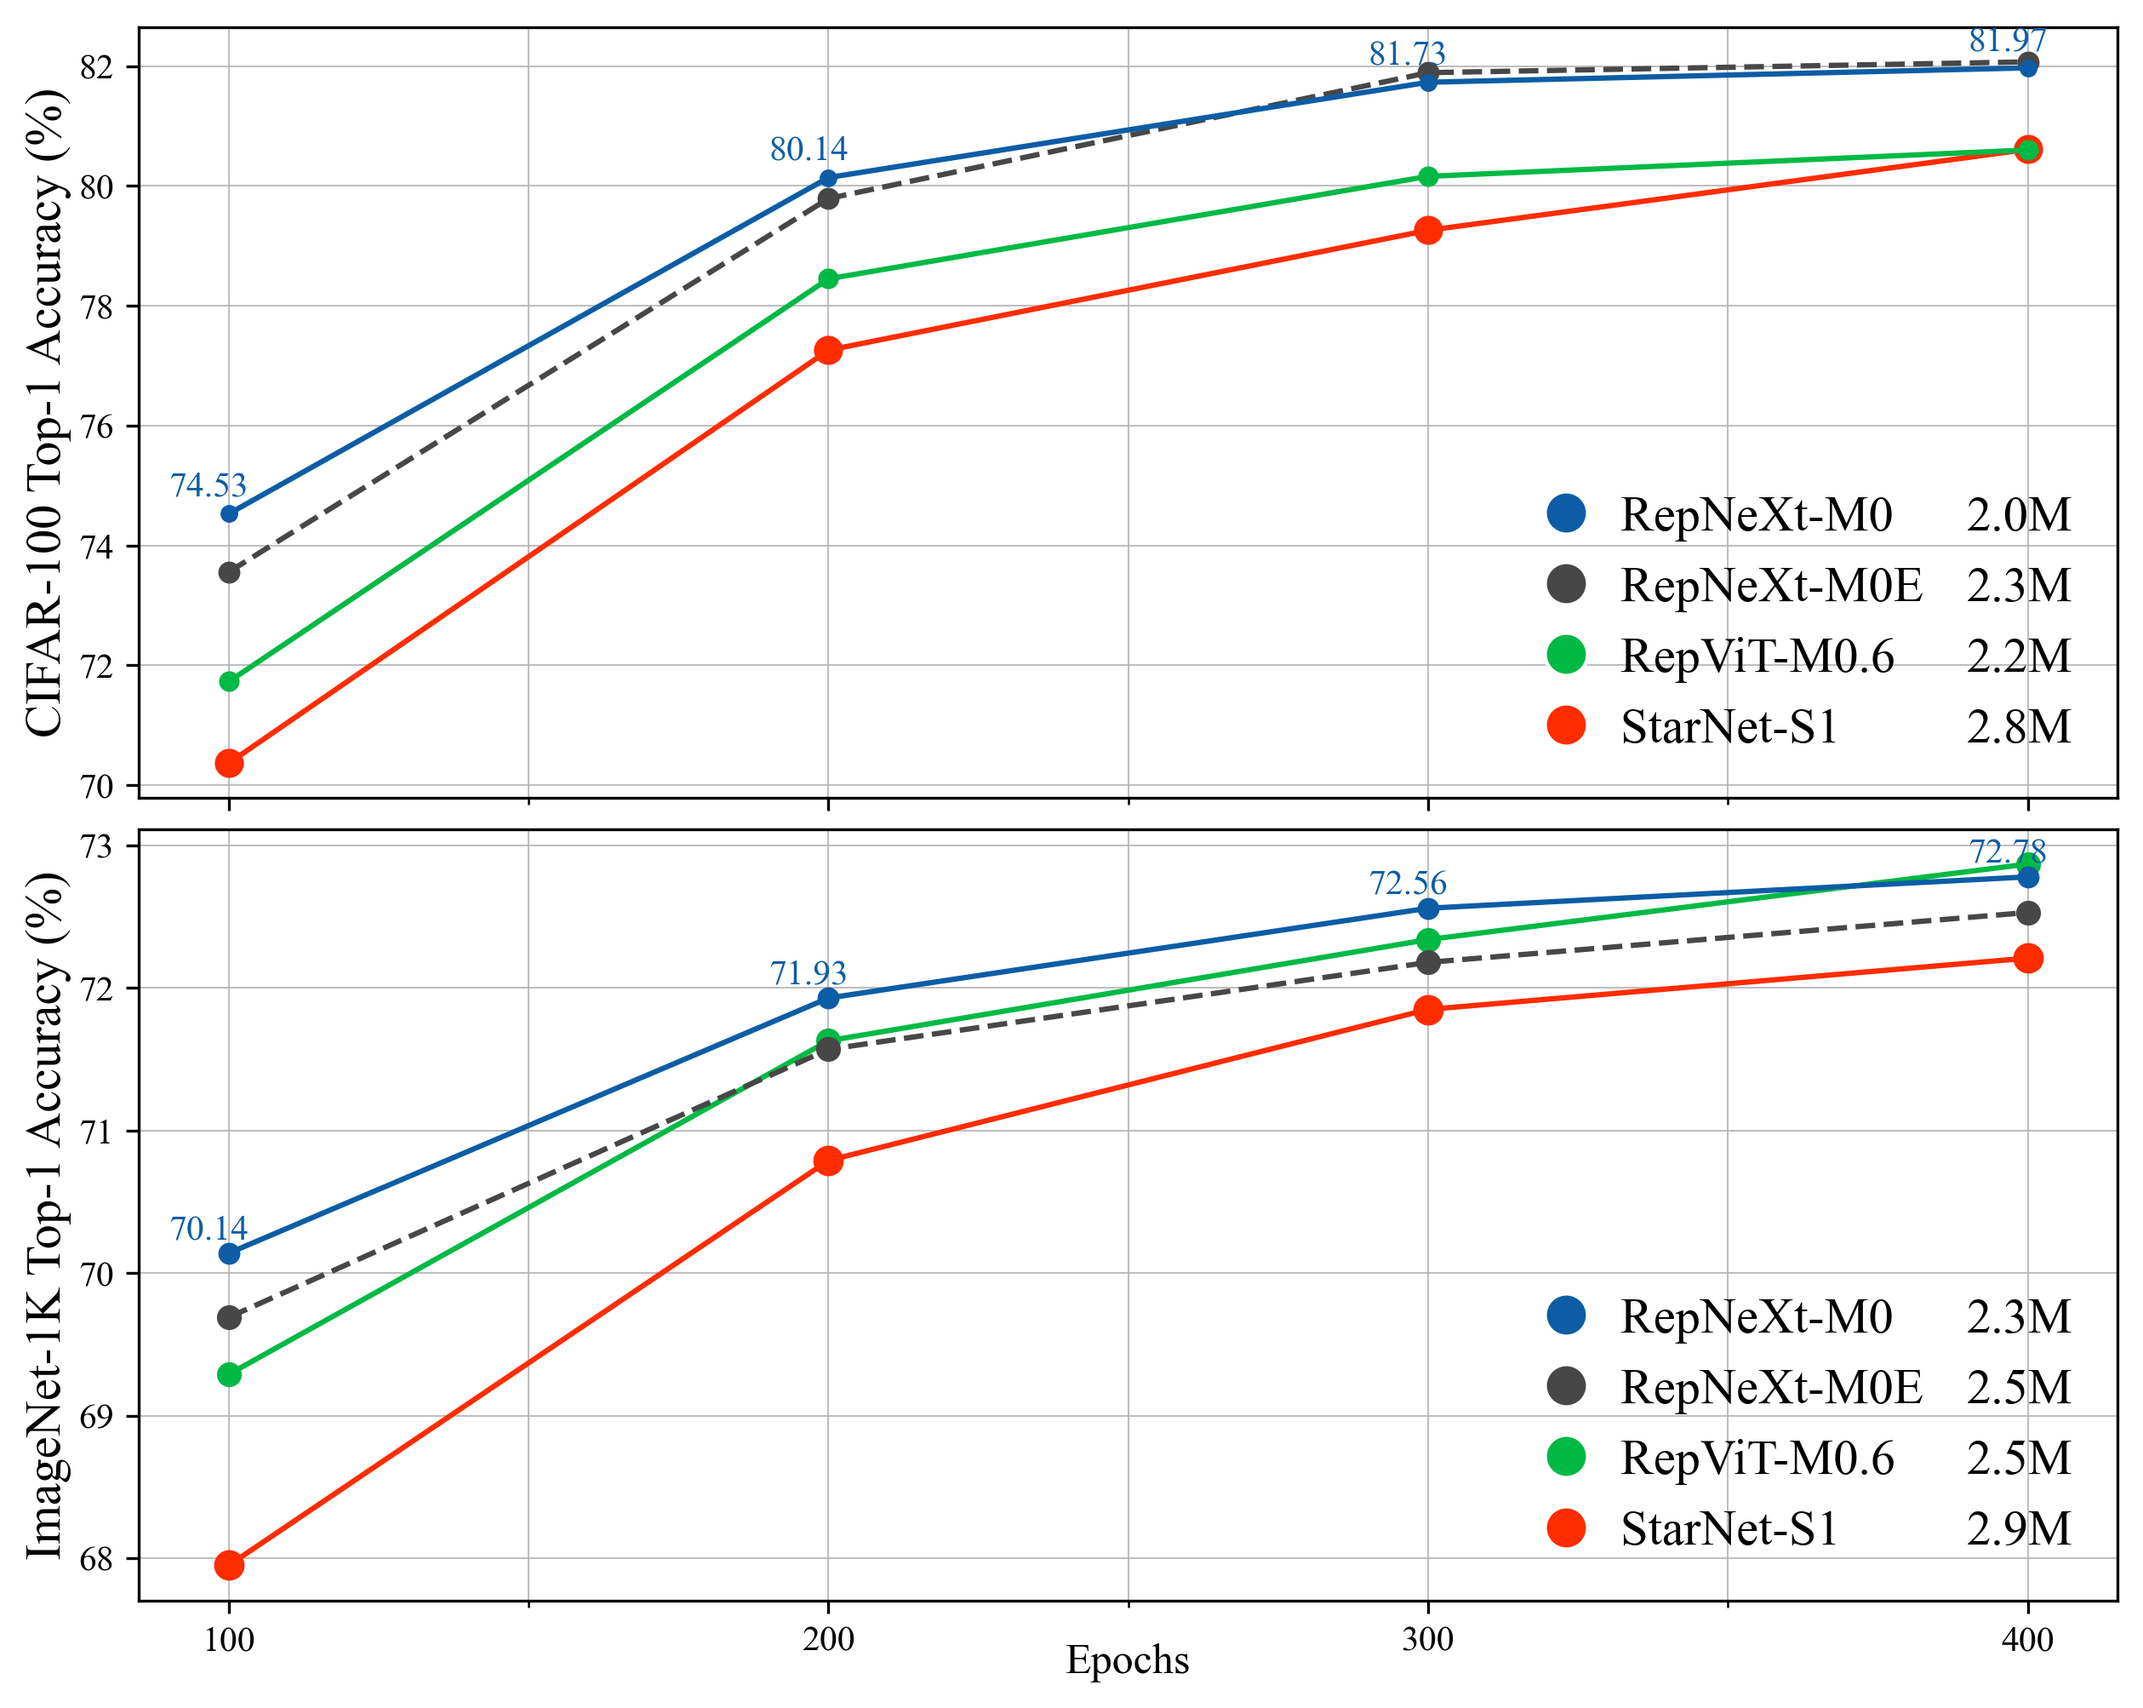
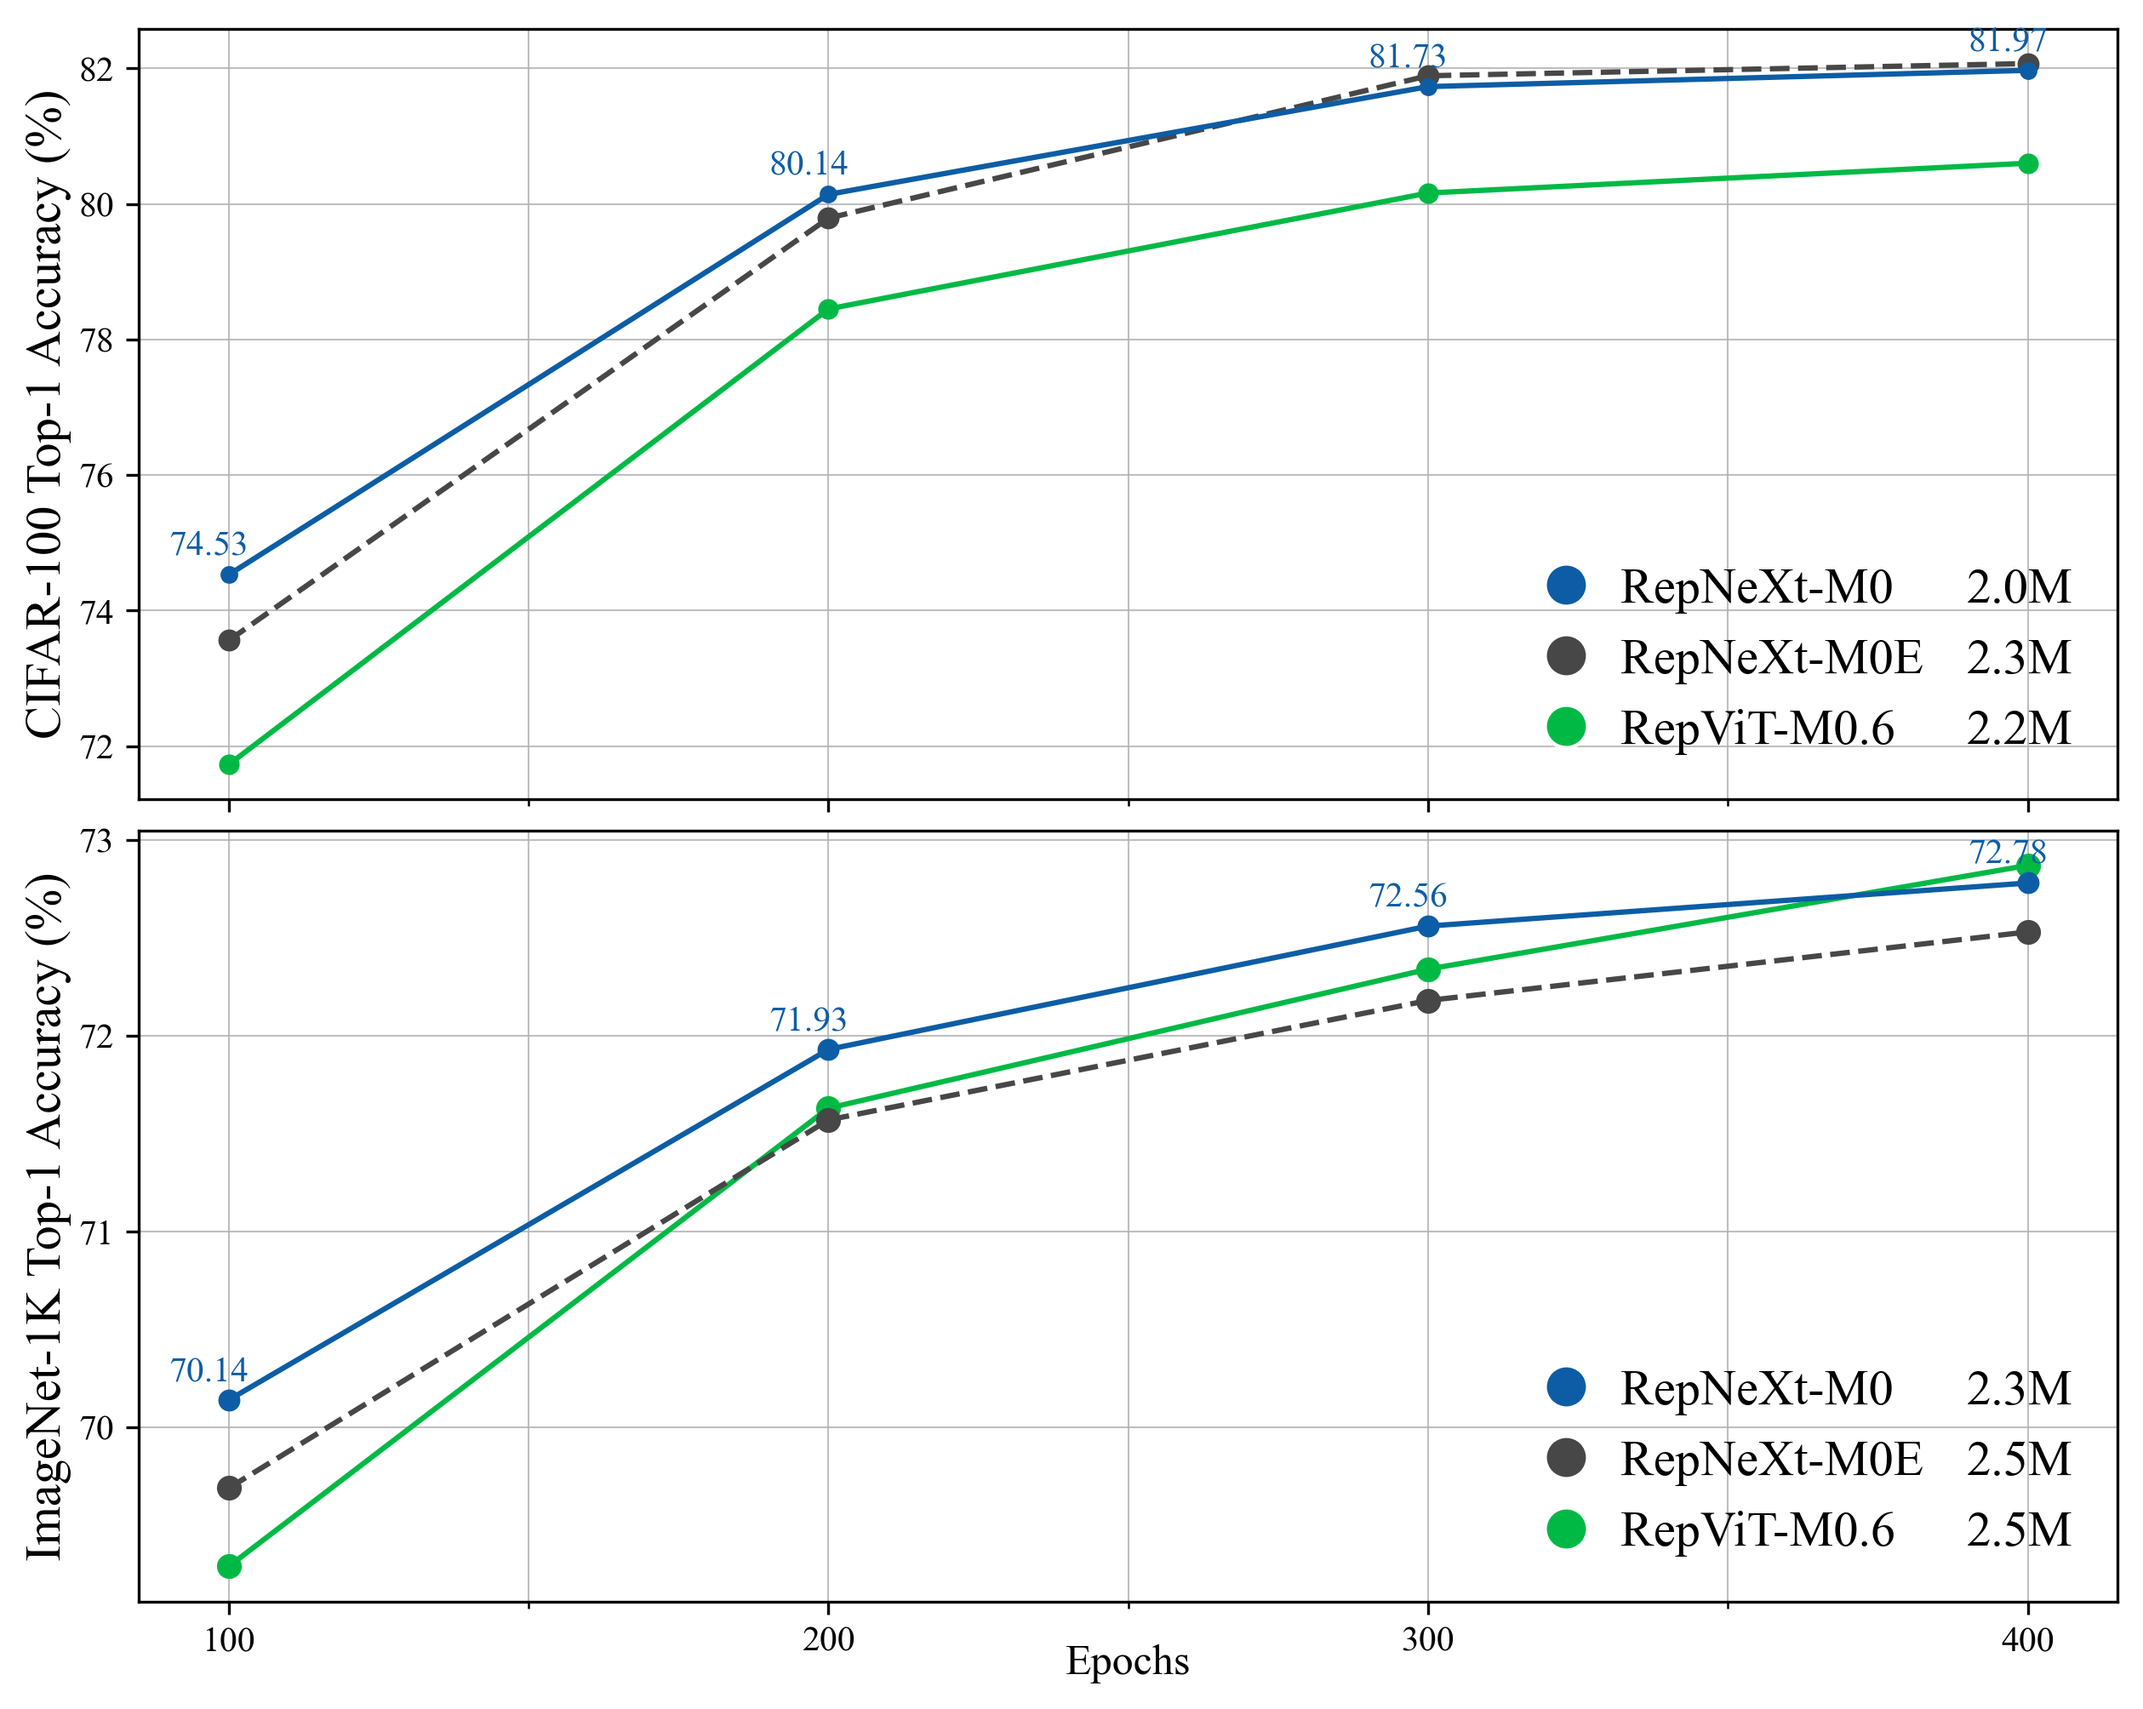
removed starnet compact model experiments.

diff --git a/tools/compact.py b/tools/compact.py
@@ -16,7 +16,6 @@ experiments = [
             Model(name="RepNeXt-M0", params=2.039, accs=[74.53, 80.14, 81.73, 81.97], color="#0C5DA5", marker="o", line="-"),
             Model(name="RepNeXt-M0E", params=2.252, accs=[73.56, 79.79, 81.89, 82.07], color="#474747", marker="o", line="--"),
             Model(name="RepViT-M0.6", params=2.179, accs=[71.73, 78.45, 80.16, 80.60], color="#00B945", marker="o", line="-"),
-            Model(name="StarNet-S1", params=2.772, accs=[70.37, 77.26, 79.26, 80.61], color="#FF2C00", marker="o", line="-"),
         ],
         offset=0.3
     ),
@@ -26,7 +25,6 @@ experiments = [
             Model(name="RepNeXt-M0", params=2.328, accs=[70.14, 71.93, 72.56, 72.78], color="#0C5DA5", marker="o", line="-"),
             Model(name="RepNeXt-M0E", params=2.541, accs=[69.69, 71.57, 72.18, 72.53], color="#474747", marker="o", line="--"),
             Model(name="RepViT-M0.6", params=2.468, accs=[69.29, 71.63, 72.34, 72.87], color="#00B945", marker="o", line="-"),
-            Model(name="StarNet-S1", params=2.945, accs=[67.95, 70.79, 71.85, 72.21], color="#FF2C00", marker="o", line="-"),
         ],
         offset=0.1
 
@@ -56,6 +54,9 @@ def plot_model_performance(models, dataset="CIFAR-100", offset=0.3):
     ax.set_ylabel(f"{dataset} Top-1 Accuracy (%)", fontsize=16)
     ax.xaxis.set_major_locator(MultipleLocator(100))
     ax.xaxis.set_minor_locator(MultipleLocator(50))
+    is_cifar = dataset == "CIFAR-100"
+    ax.yaxis.set_major_locator(MultipleLocator(1+int(is_cifar)))
+    ax.yaxis.set_minor_locator(MultipleLocator(1+int(is_cifar)))
     ax.grid(alpha=0.8, linestyle="-", linewidth=0.5)
     ax.grid(which='minor', linestyle='-', linewidth='0.5', alpha=0.8)
     ax.set_xlabel('Epochs', fontsize=16)
@@ -85,6 +86,9 @@ def plot_experiments(experiments):
         ax.set_ylabel(f"{experiment.dataset} Top-1 Accuracy (%)", fontsize=14, labelpad=2)
         ax.xaxis.set_major_locator(MultipleLocator(100))
         ax.xaxis.set_minor_locator(MultipleLocator(50))
+        is_cifar = experiment.dataset == "CIFAR-100"
+        ax.yaxis.set_major_locator(MultipleLocator(1+int(is_cifar)))
+        ax.yaxis.set_minor_locator(MultipleLocator(1+int(is_cifar)))
         ax.grid(alpha=0.8, linestyle="-", linewidth=0.5)
         ax.grid(which='minor', linestyle='-', linewidth='0.5', alpha=0.8)
     ax.set_xlabel('Epochs', fontsize=12, labelpad=-4)

diff --git a/README.md b/README.md
@@ -381,7 +381,6 @@ class Downsample(nn.Module):
 
 |    Model    | Latency (ms) | Params (M) | GMACs | Top-1 (100e) | Top-1 (200e) | Top-1 (300e) | Top-1 (400e) |                                                                                                                    Log                                                                                                                    |  
 |:-----------:|:------------:|:----------:|:-----:|:------------:|:------------:|:------------:|:------------:|:-----------------------------------------------------------------------------------------------------------------------------------------------------------------------------------------------------------------------------------------:|
-| StarNet-S1  |     0.7      |    2.8     | 0.44  |    70.37     |    77.26     |    79.26     |    80.61     |     [100e](./logs/compact/cifar/starnet_s1_cifar_100e.txt) / [200e](./logs/compact/cifar/starnet_s1_cifar_200e.txt) / [300e](./logs/compact/cifar/starnet_s1_cifar_300e.txt) / [400e](./logs/compact/cifar/starnet_s1_cifar_400e.txt)     |
 | RepViT-M0.6 |     0.6      |    2.2     | 0.39  |    71.73     |    78.45     |    80.16     |    80.60     |   [100e](./logs/compact/cifar/repvit_m0_6_cifar_100e.txt) / [200e](./logs/compact/cifar/repvit_m0_6_cifar_200e.txt) / [300e](./logs/compact/cifar/repvit_m0_6_cifar_300e.txt) / [400e](./logs/compact/cifar/repvit_m0_6_cifar_400e.txt)   |
 | RepNeXt-M0E |     0.7      |    2.3     | 0.46  |    73.56     |    79.79     |  **81.89**   |  **82.07**   | [100e](./logs/compact/cifar/repnext_m0_e_cifar_100e.txt) / [200e](./logs/compact/cifar/repnext_m0_e_cifar_200e.txt) / [300e](./logs/compact/cifar/repnext_m0_e_cifar_300e.txt) / [400e](./logs/compact/cifar/repnext_m0_e_cifar_400e.txt) |
 | RepNeXt-M0  |     0.6      |    2.0     | 0.39  |  **74.53**   |  **80.14**   |    81.73     |    81.97     |     [100e](./logs/compact/cifar/repnext_m0_cifar_100e.txt) / [200e](./logs/compact/cifar/repnext_m0_cifar_200e.txt) / [300e](./logs/compact/cifar/repnext_m0_cifar_300e.txt) / [400e](./logs/compact/cifar/repnext_m0_cifar_400e.txt)     |
@@ -395,7 +394,6 @@ Our multi-branch reparameter design helps the model converge faster, with a smal
 
 |    Model    | Latency (ms) | Params (M) | GMACs | Top-1 (100e) | Top-1 (200e) | Top-1 (300e) | Top-1 (400e) |                                                                                                                        Log                                                                                                                        |  
 |:-----------:|:------------:|:----------:|:-----:|:------------:|:------------:|:------------:|:------------:|:-------------------------------------------------------------------------------------------------------------------------------------------------------------------------------------------------------------------------------------------------:|
-| StarNet-S1  |     0.7      |    2.9     | 0.44  |    67.95     |    70.79     |    71.85     |    72.21     |     [100e](./logs/compact/imgnet/starnet_s1_imgnet_100e.txt) / [200e](./logs/compact/imgnet/starnet_s1_imgnet_200e.txt) / [300e](./logs/compact/imgnet/starnet_s1_imgnet_300e.txt) / [400e](./logs/compact/imgnet/starnet_s1_imgnet_400e.txt)     |
 | RepViT-M0.6 |     0.6      |    2.5     | 0.39  |    69.29     |    71.63     |    72.34     |  **72.87**   |   [100e](./logs/compact/imgnet/repvit_m0_6_imgnet_100e.txt) / [200e](./logs/compact/imgnet/repvit_m0_6_imgnet_200e.txt) / [300e](./logs/compact/imgnet/repvit_m0_6_imgnet_300e.txt) / [400e](./logs/compact/imgnet/repvit_m0_6_imgnet_400e.txt)   |
 | RepNeXt-M0E |     0.7      |    2.5     | 0.46  |    69.69     |    71.57     |    72.18     |    72.53     | [100e](./logs/compact/imgnet/repnext_m0_e_imgnet_100e.txt) / [200e](./logs/compact/imgnet/repnext_m0_e_imgnet_200e.txt) / [300e](./logs/compact/imgnet/repnext_m0_e_imgnet_300e.txt) / [400e](./logs/compact/imgnet/repnext_m0_e_imgnet_400e.txt) |
 | RepNeXt-M0  |     0.6      |    2.3     | 0.39  |  **70.14**   |  **71.93**   |  **72.56**   |    72.78     |     [100e](./logs/compact/imgnet/repnext_m0_imgnet_100e.txt) / [200e](./logs/compact/imgnet/repnext_m0_imgnet_200e.txt) / [300e](./logs/compact/imgnet/repnext_m0_imgnet_300e.txt) / [400e](./logs/compact/imgnet/repnext_m0_imgnet_400e.txt)     |
@@ -404,8 +402,6 @@ Our multi-branch reparameter design helps the model converge faster, with a smal
 
 `RepNeXt-M0E` is the equivalent form of `RepNeXt-M0` where the multi-branch design is replaced by the single-branch large-kernel depthwise convolution.
 Our multi-branch reparameter design helps the model converge faster, with a smaller size and lower latency.
-
-- [ ] TODO: Add [MogaNet-XT (2.97M)](https://github.com/Westlake-AI/MogaNet) results.
 
 ## Acknowledgement
 
